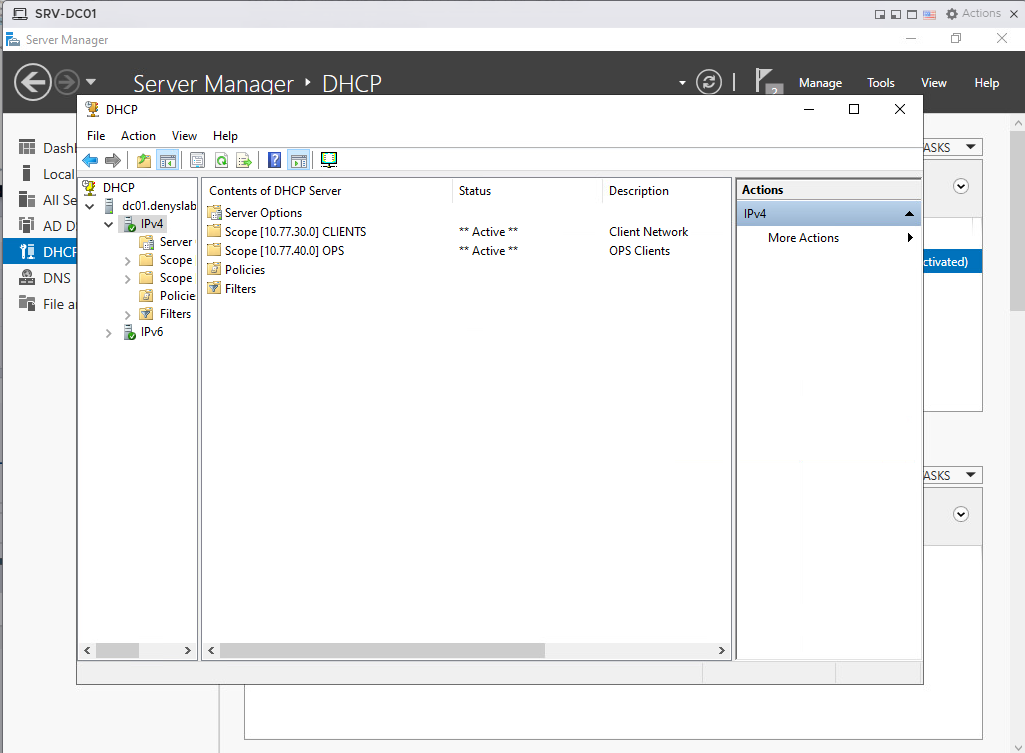
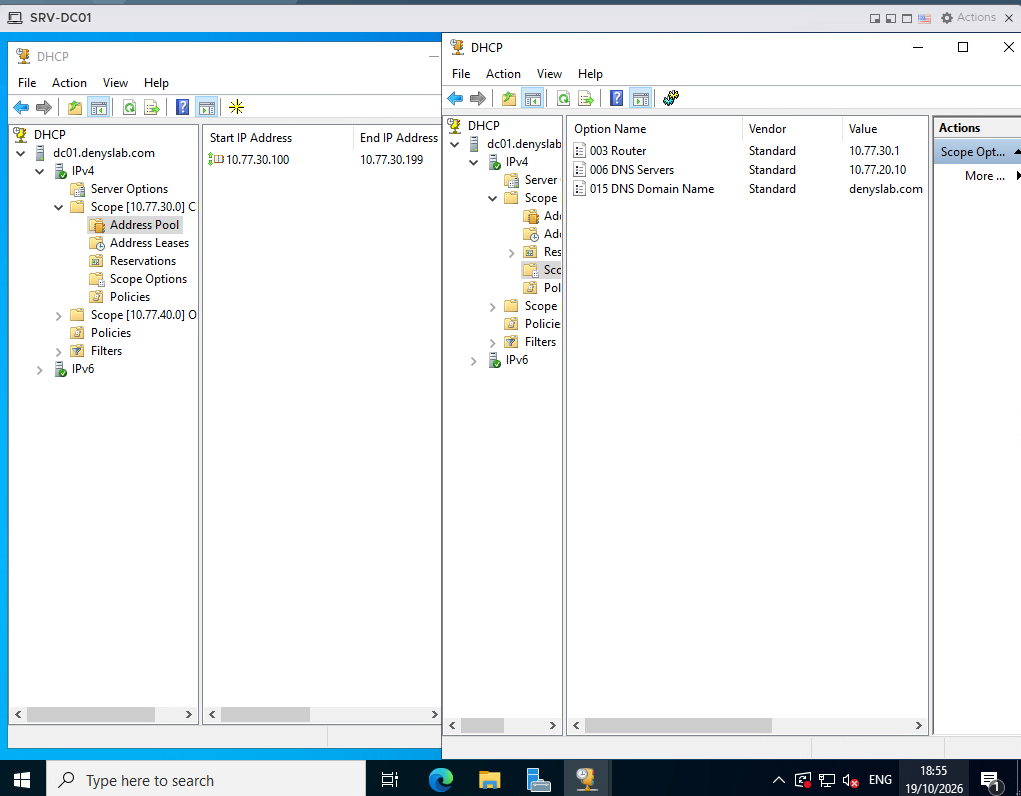
docs: refine lab evidence and architecture notes

diff --git a/docs/6-ou-gpo-and-file-access.md b/docs/6-ou-gpo-and-file-access.md
@@ -10,11 +10,17 @@ Finance and HR needed separate shared folders. I wanted folder permissions assig
 
 The domain has `Finance`, `HR`, `IT`, and `Workstations` OUs. I used `DC01` for the file shares because this lab runs on an ESXi host with 16 GB of RAM.
 
+The computer object for `CLIENT-W11-01` was shown in the default `Computers` container after domain join. I have not checked whether it has since been moved into the `Workstations` OU.
+
 For Finance, group membership and file permissions are kept separate:
 
 `jackhanma` → `Finance_Hosts_Global` → `Finance_Local` → `\\DC01\Finance`
 
-`Finance_Hosts_Global` contains the user; `Finance_Local` has Modify permission on the folder. The HR folder uses a different group, `HR_Local`, for the same permission level.
+`Finance_Hosts_Global` contains the user; `Finance_Local` has Modify permission on the folder. This follows AGDLP (Account → Global group → Domain Local group → Permission).
+
+The HR folder uses a different domain-local group, `HR_Local`, for the same NTFS permission level. The complete membership path through any HR global group has not been rechecked for this update.
+
+The `_Hosts_` part of the Finance global group name is misleading because the group contains users. In a new design I would use a name such as `GG_Finance_Users` rather than rename the existing group and disrupt the documented tests.
 
 The folders are stored at `C:\SharedFolders\Finance` and `C:\SharedFolders\HR`. They are shared as `\\DC01\Finance` and `\\DC01\HR`.
 
@@ -38,19 +44,27 @@ On `DC01`, I configured separate NTFS permissions for the Finance and HR folders
 
 *Separate NTFS permissions for `Finance` and `HR`.*
 
+The share-level permissions are not included in the current screenshot evidence and need a separate review. The NTFS and access tests below are documented independently of that check.
+
 ### Group Policy
 
-`User_ScreenLock` enables the screen saver, selects `scrnsave.scr`, requires a password when resuming, and sets the timeout to **1200 seconds (20 minutes)**.
+`User_ScreenLock` enables the screen saver, selects `scrnsave.scr`, requires a password when resuming, and sets the timeout to **1200 seconds (20 minutes)**. The exact file name in the existing screenshot should be checked against the live setting before revising the evidence.
 
 ![Screen saver policy settings](../screenshots/6-gpo-screenlock-settings.png)
 
-*Settings in the `User_ScreenLock` GPO.*
+*Settings in the `User_ScreenLock` GPO; the screen saver file name is pending a closer screenshot check.*
 
 `Finance-DriveMap` maps `\\DC01\Finance` to drive `F:`. The action is `Update`, `Reconnect` is enabled, and item-level targeting checks membership in `DENYSLAB\Finance_Hosts_Global`.
 
 ![Finance drive mapping settings](../screenshots/6-gpo-finance-drivemap.png)
 
 *Drive `F:` and the Finance group filter in Group Policy Preferences.*
+
+The GPMC Scope views show `User_ScreenLock` linked to the `Finance`, `HR`, and `IT` OUs, and `Finance-DriveMap` linked to the `Finance` OU. All four links shown in the screenshot are enabled.
+
+![GPO links](../screenshots/6-gpo-links.png)
+
+*Link locations of both GPOs in Group Policy Management.*
 
 ## Validation
 
@@ -60,7 +74,13 @@ I signed in to `CLIENT-W11-01` as `DENYSLAB\jackhanma` and ran `gpresult /r /sco
 
 ![Finance GPO results and mapped drive](../screenshots/6-finance-gpresult-drive.png)
 
-*The Finance user received both GPOs and drive `F:`.*
+*The Finance user received both GPOs. The mapped drive was checked separately with `net use`.*
+
+I created `finance-test.txt` on drive `F:` as `jackhanma` and found the same file under `C:\SharedFolders\Finance` on `DC01`. I also checked its contents on the server.
+
+![Finance write test](../screenshots/6-finance-write-test.png)
+
+*A file created through the mapped drive appears in the Finance folder on `DC01`.*
 
 ### HR
 
@@ -70,11 +90,17 @@ I repeated the checks as `hr_test`. `gpresult` listed `User_ScreenLock`, while `
 
 *The HR user received `User_ScreenLock` without the Finance drive mapping.*
 
-I opened `\\DC01\HR` in File Explorer under the HR account. Windows displayed a network-access error when I tried `\\DC01\Finance` in the same session.
+I opened `\\DC01\HR` in File Explorer under the HR account. In the same session, `dir \\DC01\Finance` returned `Access is denied.`
 
 ![HR and Finance share access checks](../screenshots/6-hr-share-access-check.png)
 
-*The HR share opened; Windows reported an error for the Finance path.*
+*The HR share opened; the Finance share returned `Access is denied`.*
+
+## Known Limitations
+
+- The shares are hosted on the domain controller because the lab has only 16 GB of RAM. I would separate file services from a domain controller in a larger deployment.
+- Windows Server is an evaluation build; its remaining evaluation period should be checked on the current VM before recording a number.
+- The share permissions, HR global-group nesting, and current placement of the workstation computer object need direct checks before adding more detailed claims.
 
 ## Next stage
 

diff --git a/docs/3-sophos-firewall.md b/docs/3-sophos-firewall.md
@@ -18,7 +18,7 @@ I did not add general inter-zone allow rules at this point. Those rules will be 
 
 ESXi management stays on `vSwitch0` at `10.100.102.69`. The firewall WAN interface also connects to the home network through `vSwitch0`, while the three internal interfaces connect to the isolated `vSwitch-LAB`.
 
-VLAN tagging is handled by ESXi at the port-group level. `SERVERS`, `CLIENTS`, and `OPS` use VLAN IDs 20, 30, and 40. Each `SF01` vNIC is connected to one VLAN-backed port group, so the Sophos guest does not use an 802.1Q trunk or VLAN subinterfaces.
+VLAN tagging is handled by ESXi on the port groups (VLAN IDs 20, 30, and 40; see [2-esxi-networking.md](2-esxi-networking.md)). Each `SF01` vNIC is attached to one of them, so Sophos does not use an 802.1Q trunk or VLAN subinterfaces.
 
 ### SF01 VM
 
@@ -29,7 +29,7 @@ VLAN tagging is handled by ESXi at the port-group level. `SERVERS`, `CLIENTS`, a
 - 80 GB auxiliary disk
 - 4 virtual NICs
 
-The host's current ESXi licensing/configuration limited this VM to one vCPU, so I kept the firewall at one vCPU for this stage.
+I kept the firewall at 1 vCPU and 4 GB RAM for this lab. I have not verified that the ESXi license limits it to one vCPU; that needs to be checked before documenting a licensing restriction.
 
 <p align="center">
   <img src="../screenshots/3-sophos-vm-hardware.png" alt="SF01 virtual machine resources and four ESXi network adapters" width="85%">
@@ -111,12 +111,12 @@ Device access on the internal zones is also kept narrow. The final zone configur
 
 ## Validation
 
-I tested the baseline with one system in each internal network. Public DNS was used temporarily for these checks. Domain clients will use the domain DNS service after `DC01` is deployed.
+I tested the baseline with one system in each internal network. Public DNS was used temporarily for these checks. Domain clients use the domain DNS service after `DC01` was deployed.
 
-| Test system | Network and address | Internet by IP | DNS resolution | Home LAN reachability |
+| Test system | Network and address at initial test | Internet by IP | DNS resolution | Home LAN reachability |
 | --- | --- | --- | --- | --- |
 | Windows Server | `SERVERS` — `10.77.20.10/24` | Pass | Pass | No reply |
-| Windows 11 | `CLIENTS` — `10.77.30.10/24` | Pass | Pass | No reply |
+| Windows 11 | `CLIENTS` — `10.77.30.10/24` (later DHCP `.100`) | Pass | Pass | No reply |
 | Debian 12 | `OPS` — `10.77.40.10/24` | Pass | Pass | No reply |
 
 ### Endpoint checks
@@ -141,10 +141,10 @@ I tested the baseline with one system in each internal network. Public DNS was u
 
 ### Firewall log
 
-The firewall log provides the policy evidence. It shows internet traffic from the lab allowed by the matching zone rule with `Default SNAT IPv4` applied, and lab traffic to `10.100.102.1` denied by `LAB_TO_HOME_DENY`.
+The firewall log provides the policy evidence. It shows internet traffic from the lab allowed by the matching zone rule with `Default SNAT IPv4` applied, and traffic from all three networks to `10.100.102.1` denied by `LAB_TO_HOME_DENY`. I captured the updated log after `CLIENT-W11-01` had moved to DHCP and `SERVERS` was running `DC01`. The source addresses shown are `10.77.20.10`, `10.77.30.100`, and `10.77.40.10`.
 
 <p align="center">
-  <img src="../screenshots/3-sophos-traffic-log.png" alt="Sophos Log Viewer showing allowed SNAT traffic and denied lab-to-home traffic" width="100%">
+  <img src="../screenshots/3-sophos-traffic-log.png" alt="Sophos Log Viewer showing allowed SNAT traffic and denied traffic from all three lab networks to the home gateway" width="100%">
 </p>
 
 *Allowed internet traffic with SNAT and denied lab-to-home traffic in the same log view.*
@@ -169,4 +169,4 @@ The cause was that ICMP to the firewall itself was not enabled for the `SERVERS`
 
 The Windows 11 client could ping `8.8.8.8`, but hostname lookups and browser access failed with `DNS_PROBE_FINISHED_BAD_CONFIG`. The successful IP test showed that the client gateway, firewall rule, SNAT, and WAN path were working.
 
-I configured `8.8.8.8` and `1.1.1.1` as temporary DNS servers and repeated the test. Name resolution then worked. These public resolvers are only a temporary validation setting; the domain design will use `DC01` for DNS.
+I configured `8.8.8.8` and `1.1.1.1` as temporary DNS servers and repeated the test. Name resolution then worked. These public resolvers were only a temporary validation setting; the domain design now uses `DC01` for DNS.

diff --git a/docs/5-dhcp-and-windows-client.md b/docs/5-dhcp-and-windows-client.md
@@ -25,7 +25,7 @@ I installed the DHCP Server role on `DC01` and created the `CLIENTS` and `OPS` s
 
 ![Windows DHCP scopes](../screenshots/5-windows-dhcp-scopes.png)
 
-*Both IPv4 scopes are active on `DC01`.*
+*`CLIENTS` address pool and scope options (003 router, 006 DNS server, and 015 DNS domain). The `OPS` scope is also configured.*
 
 ### DHCP relay
 
@@ -52,6 +52,8 @@ Both rules target `DC01` rather than the full `SERVERS` subnet. The DNS rule als
 
 I created the `AD Services` service object with TCP 88, 389, 445, 135, 464, and 49152–65535, plus UDP 88, 389, 464, and 123. DNS uses the separate rule on TCP/UDP 53. The AD rule does not require a known Sophos user because the workstation needs to reach the domain controller before sign-in.
 
+The `AD Services` object does not include TCP 3268 (Global Catalog) or TCP 636 (LDAPS). Domain join and sign-in worked without those ports in this test. I will review access rules if a later service requires them.
+
 ![AD Services port settings](../screenshots/5-ad-services-ports.png)
 
 *Ports configured in the Sophos `AD Services` object.*
@@ -62,15 +64,15 @@ I created the `AD Services` service object with TCP 88, 389, 445, 135, 464, and 
 
 I changed `CLIENT-W11-01` from a static address to DHCP. Its network settings showed `10.77.30.100/24`, gateway `10.77.30.1`, and `10.77.20.10` as both DHCP and DNS server. The DNS suffix was `denyslab.com`.
 
-The client resolved `dc01.denyslab.com` to `10.77.20.10` and resolved `google.com` using `DC01`.
+The client resolved `dc01.denyslab.com` to `10.77.20.10` and resolved `google.com` using `DC01`. The refreshed screenshot also shows successful ICMP replies from `google.com`.
 
 ![Windows client DNS validation](../screenshots/5-client-dns-validation.png)
 
-*The Windows client uses `DC01` for internal and external DNS lookups.*
+*The Windows client uses `DC01` for internal and external DNS lookups; external connectivity also passed.*
 
 ### Domain join
 
-I joined `CLIENT-W11-01` to `denyslab.com` and signed in as `DENYSLAB\jackhanma`. Active Directory Users and Computers on `DC01` showed the client computer account in the `Computers` container.
+I joined `CLIENT-W11-01` to `denyslab.com` and signed in as `DENYSLAB\jackhanma`. Active Directory Users and Computers on `DC01` showed the client computer account in the `Computers` container at that time.
 
 ![Windows domain client and computer account](../screenshots/5-client-domain-join.png)
 
@@ -80,7 +82,7 @@ The client test confirms the `CLIENTS` DHCP path. The `OPS` scope and relay are 
 
 ## Troubleshooting
 
-After switching the client to DHCP, it received the expected IP settings but could not resolve `google.com`. I added the DNS firewall rule from `CLIENTS` and `OPS` to `DC01` and repeated the lookups. Both the domain controller name and the external name resolved.
+After switching the client to DHCP, it received the expected IP settings but could not resolve `google.com`. DNS from `CLIENTS` and `OPS` to `DC01` was not allowed yet. I added the DNS firewall rule and repeated the lookups. The updated client evidence shows that both the domain controller name and the external name resolved, and `ping google.com` succeeded.
 
 ## Next stage
 

diff --git a/README.md b/README.md
@@ -13,8 +13,19 @@ I am adding each part of the lab as I build and test it.
 - ESXi management network on the home LAN
 - Internal lab networks isolated on a separate ESXi virtual switch
 - Sophos Firewall Home as the permanent firewall for the lab networks
-- Windows Server 2022 running AD DS, DNS, and DHCP on `DC01`
-- Additional Windows roles, Linux services, monitoring, and backup components will be added in later stages
+- Windows Server 2022 running AD DS, DNS, DHCP, and the lab file shares on `DC01`
+- Linux services, monitoring, and further backup and recovery work are planned for later stages
+
+## Lab Inventory
+
+| VM | Hostname | Network | Address | Role |
+| --- | --- | --- | --- | --- |
+| `SF01` | `SF01` | WAN, SERVERS, CLIENTS, OPS | WAN `10.100.102.70` (DHCP); gateways `10.77.20.1`, `10.77.30.1`, `10.77.40.1` | Sophos Firewall Home |
+| `SRV-DC01` | `DC01` | SERVERS (VLAN 20) | `10.77.20.10` (static) | AD DS, DNS, DHCP, file shares |
+| `CLIENT-W11-01` | `CLIENT-W11-01` | CLIENTS (VLAN 30) | `10.77.30.100` (DHCP, as captured) | Windows 11 domain client |
+| `DEB12` | `DEB12` | OPS (VLAN 40) | `10.77.40.10` (static) | Debian 12 test host |
+
+![Current lab topology](diagrams/lab-topology.svg)
 
 ## Current Status
 
@@ -24,8 +35,29 @@ I am adding each part of the lab as I build and test it.
 - ✅ [Active Directory and DNS](docs/4-active-directory-dns.md)
 - ✅ [DHCP and Windows client](docs/5-dhcp-and-windows-client.md)
 - ✅ [OUs, Group Policy, and file access](docs/6-ou-gpo-and-file-access.md)
-- ⬜ Linux and Docker
+- ⬜ Linux services and Docker
 - ⬜ Monitoring
 - ⬜ Backup and restore testing
 - ⬜ Vendor firewall lab
 - ⬜ Hybrid Microsoft 365 stage
+
+## What This Lab Demonstrates
+
+- VMware ESXi: standard vSwitches, VLAN-backed port groups, host management kept separate from the guest networks
+- Sophos Firewall: zones, routing, SNAT, ordered firewall rules, DHCP relay, scoped device access, log-based validation
+- Windows Server 2022: AD DS, DNS with forwarders, DHCP, OUs, security groups (AGDLP), Group Policy, file shares with NTFS permissions
+- Windows 11 domain client: DHCP, domain join, GPO and mapped-drive checks with `gpresult` and `net use`
+- Documented stages using Requirement, Design, Implementation, Validation, and Troubleshooting where applicable
+
+## Known Limitations
+
+- One host with 16 GB of RAM, so the always-on footprint is small and the file shares live on `DC01`.
+- One domain controller, with no tested system or data restore procedure yet. A Sophos configuration export is stored off-host, but it has not been restore-tested.
+- Windows Server 2022 is an evaluation build. The Windows 11 license status has not been verified for this documentation update.
+- `denyslab.com` is used as the internal AD DNS namespace (see [4-active-directory-dns.md](docs/4-active-directory-dns.md)). Ownership of the public DNS domain is not documented here.
+
+## Repository Structure
+
+- `docs/` – documentation for completed stages
+- `diagrams/` – network diagrams
+- `screenshots/` – evidence for documented steps

diff --git a/docs/2-esxi-networking.md b/docs/2-esxi-networking.md
@@ -1,10 +1,16 @@
 # ESXi Networking
 
-The ESXi network foundation keeps host management independent from the virtual firewall and separates the internal lab networks on an isolated virtual switch.
+## Requirement
 
-The diagram below is the Phase 3 design snapshot from before the firewall VM was deployed.
+ESXi management needs to stay reachable even if the firewall VM is down. The lab also needs three isolated networks for servers, clients, and operations. Traffic between them should cross the firewall.
 
-![Phase 3 ESXi network layout](../diagrams/2-esxi-network-layout.svg)
+## Design
+
+Host management stays on `vSwitch0`, outside the virtual firewall. The internal lab networks share a separate vSwitch with no physical uplink.
+
+The diagram below is the initial network design from before the firewall VM was deployed. The [README](../README.md) contains the current topology with the deployed VMs.
+
+![Initial ESXi network design](../diagrams/2-esxi-network-layout.svg)
 
 `vSwitch0` is connected to the home LAN through `vmnic0`. ESXi management remains on this switch through `vmk0` at `10.100.102.69`.
 
@@ -22,13 +28,15 @@ The gateway addresses are configured on Sophos Firewall interfaces. ESXi does no
 
 VLAN tagging is configured on the ESXi port groups. Each internal `SF01` vNIC is attached to one VLAN-backed port group, so ESXi handles the VLAN assignment before traffic reaches the guest. `SF01` does not receive an 802.1Q trunk and does not use VLAN subinterfaces for these networks.
 
+Port groups with the same VLAN ID on a vSwitch would share one broadcast domain. Separate VLAN IDs keep `SERVERS`, `CLIENTS`, and `OPS` isolated at Layer 2 even though the vSwitch has no physical uplink. Routing and access between those networks are handled by Sophos.
+
 - `PortA` → `SERVERS`
 - `PortC` → `CLIENTS`
 - `PortD` → `OPS`
 
 `PortB` is attached to `VM Network` for WAN access.
 
-## ESXi Host Client
+## Validation
 
 <p align="center">
   <img src="../screenshots/2-esxi-vswitch-lab-proof.png" alt="vSwitch-LAB configuration in ESXi Host Client" width="100%">

diff --git a/docs/4-active-directory-dns.md b/docs/4-active-directory-dns.md
@@ -17,13 +17,15 @@ I needed a domain controller on the `SERVERS` network, with a static IP and DNS 
 | Gateway | `10.77.20.1` (Sophos `PortA`) |
 | Preferred DNS | `10.77.20.10` |
 | DNS forwarders | `8.8.8.8`, `1.1.1.1` |
-| Domain and forest functional levels | Windows Server 2016 |
+| Domain and forest functional levels | Windows Server 2016 (the highest available on Windows Server 2022) |
 
 `DC01` uses its own DNS service for domain lookups. The public DNS servers are configured as forwarders, not as alternate DNS servers on the network adapter. DNS Server and Global Catalog are enabled on the domain controller.
 
+`denyslab.com` is used as an internal Active Directory DNS zone in this lab. Ownership of the public DNS name has not been confirmed for this documentation update. For a new organizational deployment, I would choose an AD subdomain of a DNS domain the organization owns, such as `ad.<company-domain>`.
+
 ## Implementation
 
-I renamed the Windows Server VM to `DC01` and installed the AD DS role and management tools.
+I renamed the Windows Server guest to `DC01` (the ESXi VM is named `SRV-DC01`) and installed the AD DS role and management tools.
 
 ![AD DS role installed](../screenshots/4-ad-ds-role-installed.png)
 
@@ -64,7 +66,13 @@ I checked DNS from `DC01`:
 
 *DNS test results for `DC01`.*
 
-I also checked `net share` and found both `SYSVOL` and `NETLOGON`. A separate `dcdiag /q` run reported `DFSREvent` and `SystemLog` entries from the Windows event logs.
+I also checked `net share` and found both `SYSVOL` and `NETLOGON`.
+
+## Troubleshooting
+
+### Warnings after promotion
+
+A separate `dcdiag /q` run reported `DFSREvent` and `SystemLog` entries. I have not confirmed the full details of the related Event Viewer entries for this documentation update. DNS resolution, the later DHCP tests, domain join, and sign-in were validated in subsequent stages. The diagnostic warnings still need a separate review; successful client tests do not prove that all warnings can be ignored.
 
 ## Next stage
 

diff --git a/docs/1-hardware-and-host.md b/docs/1-hardware-and-host.md
@@ -1,13 +1,13 @@
 # ESXi Host
 
-I installed VMware ESXi 8.0 Update 3 on a dedicated PC that will run the infrastructure VMs for this lab.
+I installed VMware ESXi 8.0 Update 3 on a dedicated PC that runs the infrastructure VMs for this lab.
 
 ## Host
 
 - ASUS H410M-A
 - Intel Core i3-10100 @ 3.60 GHz
 - 16 GB RAM
-- 512 GB SSD
+- 512 GB SSD (the ESXi Host Client showed approximately 334 GB as the VMFS datastore)
 
 The machine was originally planned with 32 GB of RAM, but one motherboard RAM slot is not working. I decided to continue with the current hardware and keep the VM footprint small instead of delaying the lab for an upgrade.
 
@@ -29,7 +29,7 @@ After installation, the host clock was incorrect. I corrected the host time usin
 
 The screenshot below shows the host after the initial setup, with the hostname, ESXi version, hardware information, management IP, and corrected host time.
 
-![ESXi host summary](../screenshots/esxi-host-summary.png)
+![ESXi host summary](../screenshots/1-esxi-host-summary.png)
 
 ## Resource limits
 
